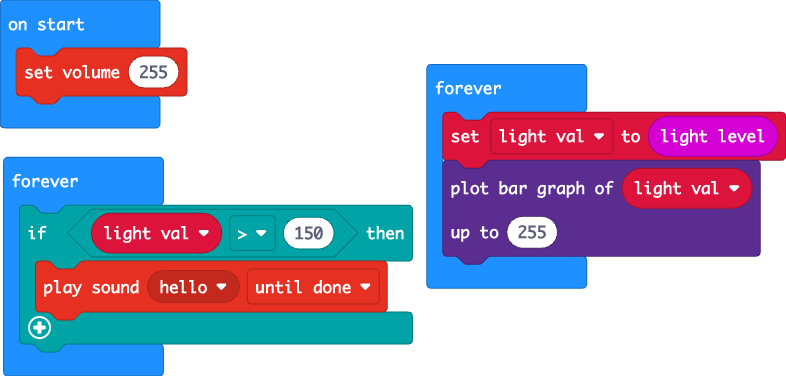
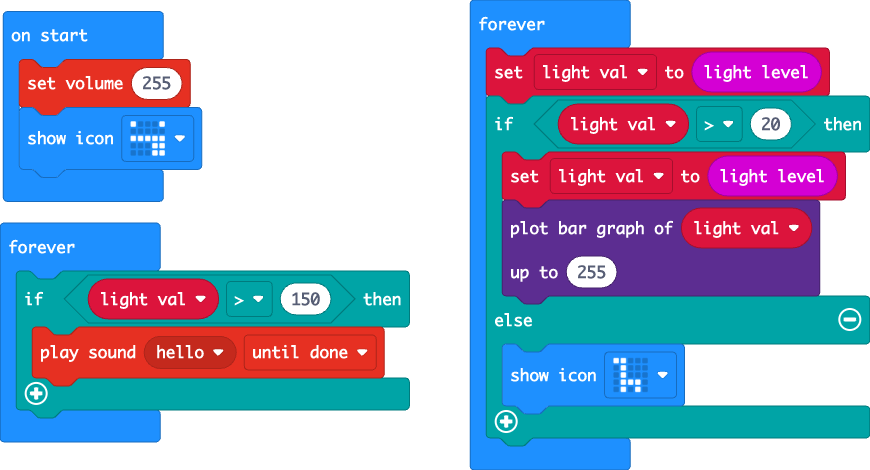
Update main.blocks, main.ts

diff --git a/main.ts b/main.ts
@@ -1,11 +1,17 @@
 let light_val = 0
 music.setVolume(255)
+basic.showIcon(IconNames.Silly)
 basic.forever(function () {
     light_val = input.lightLevel()
-    led.plotBarGraph(
-    light_val,
-    255
-    )
+    if (light_val > 20) {
+        light_val = input.lightLevel()
+        led.plotBarGraph(
+        light_val,
+        255
+        )
+    } else {
+        basic.showIcon(IconNames.Giraffe)
+    }
 })
 basic.forever(function () {
     if (light_val > 150) {
